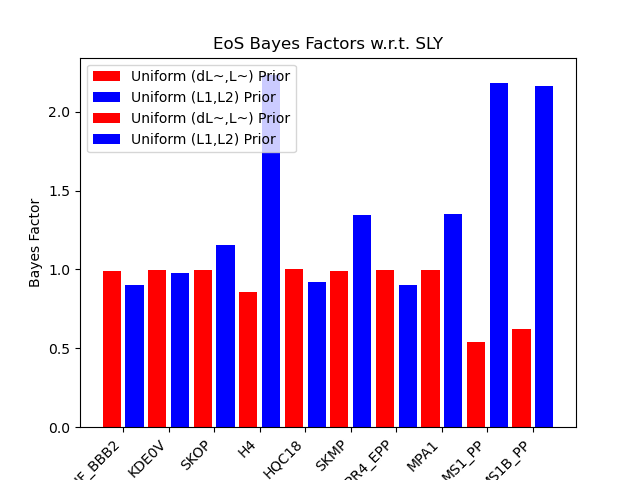
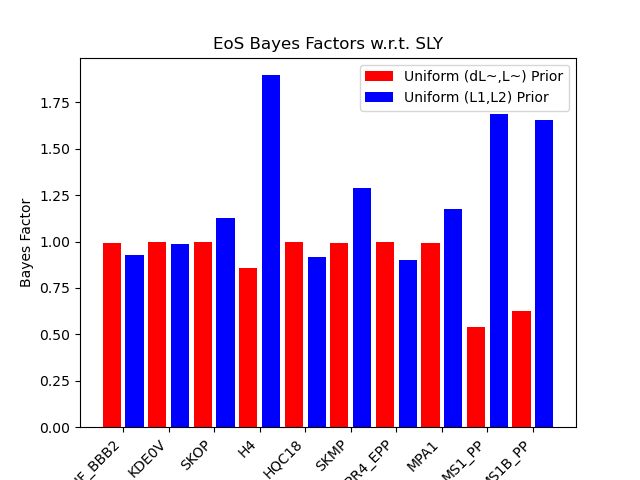
Adjusting Prior bar plots 2.

diff --git a/year2/PhenomTaylorCompare/dist_plot.py b/year2/PhenomTaylorCompare/dist_plot.py
@@ -128,6 +128,7 @@ def BF_barplot(inverseWeight=False):
     x_axis = np.arange(len(eosList))
     #plt.bar(x_axis-.25,methods_BFs[0],.5,yerr=methods_uncerts[0],label=labels[0],color="red")
     #plt.bar(x_axis+.25,mehtods_BFs[1],.5,yerr=methods_uncerts[1],label=labels[1],color="blue")
+    plt.clf()
     plt.bar(x_axis-.25,methods_BFs[0],.4,label=labels[0],color="red")
     plt.bar(x_axis+.25,methods_BFs[1],.4,label=labels[1],color="blue")
 
